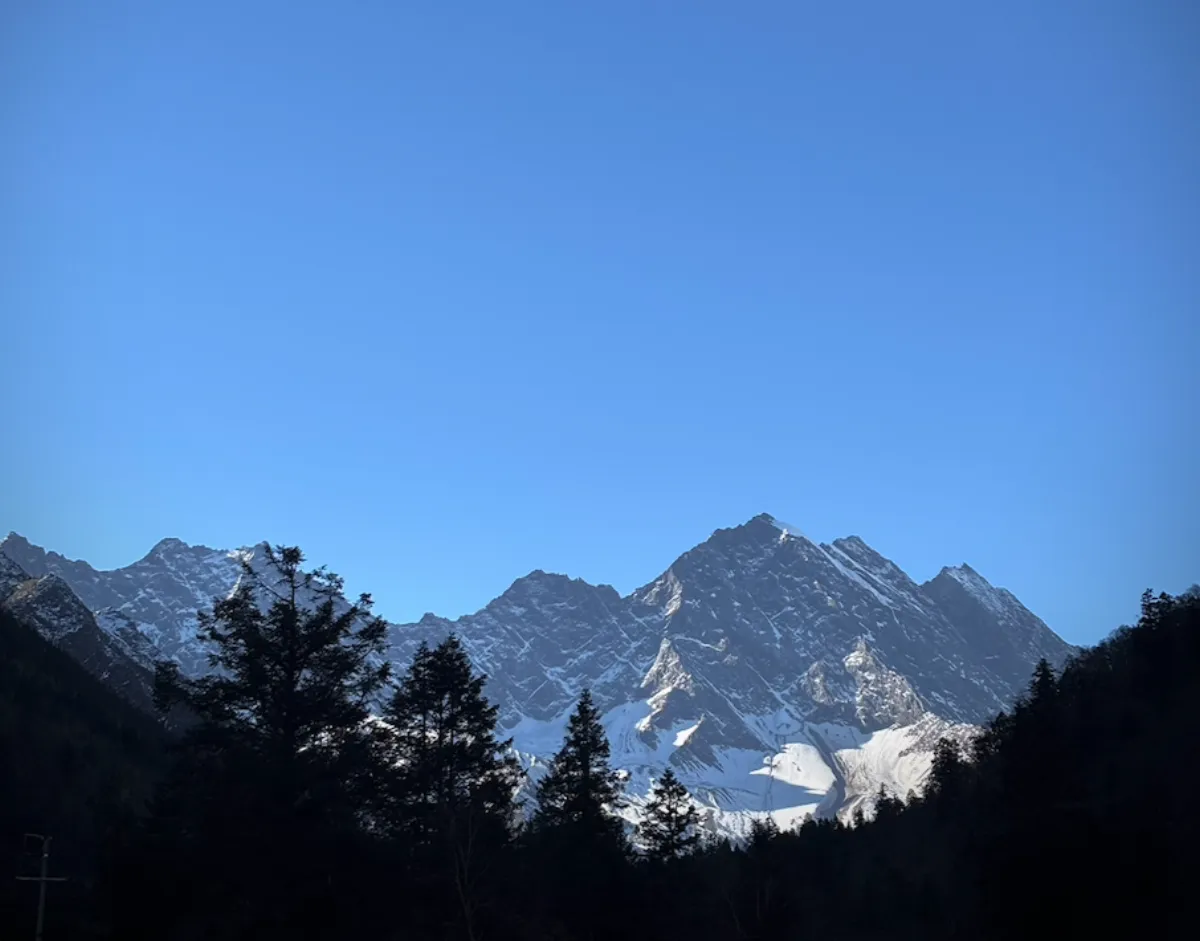
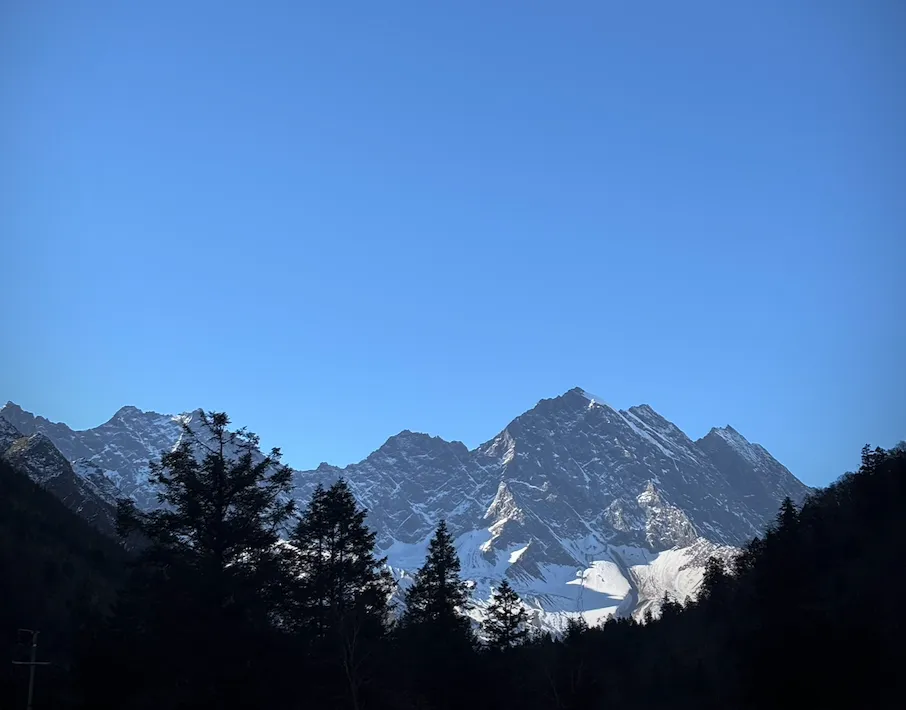
Khao Sok + Chuanxi albums: masonry layout (no cover crop), native-res thumbs

diff --git a/travel-photos/photo/Khao Sok 2025/index.html b/travel-photos/photo/Khao Sok 2025/index.html
@@ -29,21 +29,21 @@
   .intro h1 { font-family: 'Fraunces', serif; font-weight: 400; font-size: 28pt; color: var(--ink); margin-bottom: 8px; }
   .intro p { font-size: 10pt; color: var(--sage-deep); text-transform: uppercase; letter-spacing: 0.08em; font-weight: 600; }
 
-  .gallery { max-width: 1200px; margin: 0 auto; padding: 0 32px 80px; display: grid; grid-template-columns: repeat(3, 1fr); gap: 16px; }
-  .gallery .photo { display: block; border-radius: 2px; overflow: hidden; position: relative; cursor: pointer; aspect-ratio: 4/3; background: var(--sand); }
-  .gallery .photo img { width: 100%; height: 100%; object-fit: cover; display: block; transition: opacity .4s, transform 3s ease; }
+  .gallery { max-width: 1200px; margin: 0 auto; padding: 0 32px 80px; columns: 3; column-gap: 16px; }
+  .gallery .photo { display: block; border-radius: 2px; overflow: hidden; position: relative; cursor: pointer; margin-bottom: 16px; break-inside: avoid; background: var(--sand); }
+  .gallery .photo img { width: 100%; height: auto; display: block; transition: opacity .4s, transform 3s ease; }
   .gallery .photo:hover img { opacity: 0.88; transform: scale(1.035); }
   .gallery .photo .caption { position: absolute; bottom: 0; left: 0; right: 0; padding: 30px 16px 14px; background: linear-gradient(to top, rgba(38,32,24,.55), transparent); font-size: 9pt; color: rgba(250,247,242,.85); opacity: 0; transition: opacity .3s; pointer-events: none; }
   .gallery .photo:hover .caption { opacity: 1; }
 
   footer { max-width: 1200px; margin: 0 auto; padding: 10px 32px 40px; font-size: 8pt; color: rgba(58,54,48,.4); text-align: center; }
 
-  @media (max-width: 800px) { .gallery { grid-template-columns: repeat(2, 1fr); } }
+  @media (max-width: 800px) { .gallery { columns: 2; } }
   @media (max-width: 500px) {
    .header { padding: 28px 20px 16px; }
    .intro { padding: 40px 20px 20px; }
    .intro h1 { font-size: 22pt; }
-   .gallery { grid-template-columns: 1fr; padding: 0 20px 60px; }
+   .gallery { columns: 1; padding: 0 20px 60px; }
    .gallery .photo .caption { opacity: 1; }
   }
  </style>
@@ -62,32 +62,32 @@
 <div class="gallery">
 
  <a href="Ban%20Chiao%20Lan.png" class="photo" target="_blank">
-  <img src="web/Ban%20Chiao%20Lan.webp" alt="Ban Chiao Lan" loading="lazy">
+  <img src="web/Ban%20Chiao%20Lan.webp" alt="Ban Chiao Lan" width="962" height="874" loading="lazy">
   <div class="caption">Ban Chiao Lan</div>
  </a>
 
  <a href="sunset%20ban%20chiao%20lan.png" class="photo" target="_blank">
-  <img src="web/sunset%20ban%20chiao%20lan.webp" alt="Sunset Ban Chiao Lan" loading="lazy">
+  <img src="web/sunset%20ban%20chiao%20lan.webp" alt="Sunset Ban Chiao Lan" width="1254" height="980" loading="lazy">
   <div class="caption">Sunset at Ban Chiao Lan</div>
  </a>
 
  <a href="ratchaprapha%20dam.png" class="photo" target="_blank">
-  <img src="web/ratchaprapha%20dam.webp" alt="Ratchaprapha Dam" loading="lazy">
+  <img src="web/ratchaprapha%20dam.webp" alt="Ratchaprapha Dam" width="966" height="914" loading="lazy">
   <div class="caption">Ratchaprapha Dam</div>
  </a>
 
  <a href="ratchaprapha%20dam%201.png" class="photo" target="_blank">
-  <img src="web/ratchaprapha%20dam%201.webp" alt="Ratchaprapha Dam" loading="lazy">
+  <img src="web/ratchaprapha%20dam%201.webp" alt="Ratchaprapha Dam" width="1200" height="908" loading="lazy">
   <div class="caption">Ratchaprapha Dam</div>
  </a>
 
  <a href="ratchaprapha%20dam%202.png" class="photo" target="_blank">
-  <img src="web/ratchaprapha%20dam%202.webp" alt="Ratchaprapha Dam" loading="lazy">
+  <img src="web/ratchaprapha%20dam%202.webp" alt="Ratchaprapha Dam" width="1200" height="1024" loading="lazy">
   <div class="caption">Ratchaprapha Dam</div>
  </a>
 
  <a href="ratchaprapha%203.png" class="photo" target="_blank">
-  <img src="web/ratchaprapha%203.webp" alt="Ratchaprapha" loading="lazy">
+  <img src="web/ratchaprapha%203.webp" alt="Ratchaprapha" width="1200" height="1062" loading="lazy">
   <div class="caption">Ratchaprapha</div>
  </a>
 

diff --git a/travel-photos/photo/China.chuanxi 2025/index.html b/travel-photos/photo/China.chuanxi 2025/index.html
@@ -29,21 +29,21 @@
   .intro h1 { font-family: 'Fraunces', serif; font-weight: 400; font-size: 28pt; color: var(--ink); margin-bottom: 8px; }
   .intro p { font-size: 10pt; color: var(--sage-deep); text-transform: uppercase; letter-spacing: 0.08em; font-weight: 600; }
 
-  .gallery { max-width: 1200px; margin: 0 auto; padding: 0 32px 80px; display: grid; grid-template-columns: repeat(3, 1fr); gap: 16px; }
-  .gallery .photo { display: block; border-radius: 2px; overflow: hidden; position: relative; cursor: pointer; aspect-ratio: 4/3; background: var(--sand); }
-  .gallery .photo img { width: 100%; height: 100%; object-fit: cover; display: block; transition: opacity .4s, transform 3s ease; }
+  .gallery { max-width: 1200px; margin: 0 auto; padding: 0 32px 80px; columns: 3; column-gap: 16px; }
+  .gallery .photo { display: block; border-radius: 2px; overflow: hidden; position: relative; cursor: pointer; margin-bottom: 16px; break-inside: avoid; background: var(--sand); }
+  .gallery .photo img { width: 100%; height: auto; display: block; transition: opacity .4s, transform 3s ease; }
   .gallery .photo:hover img { opacity: 0.88; transform: scale(1.035); }
   .gallery .photo .caption { position: absolute; bottom: 0; left: 0; right: 0; padding: 30px 16px 14px; background: linear-gradient(to top, rgba(38,32,24,.55), transparent); font-size: 9pt; color: rgba(250,247,242,.85); opacity: 0; transition: opacity .3s; pointer-events: none; }
   .gallery .photo:hover .caption { opacity: 1; }
 
   footer { max-width: 1200px; margin: 0 auto; padding: 10px 32px 40px; font-size: 8pt; color: rgba(58,54,48,.4); text-align: center; }
 
-  @media (max-width: 800px) { .gallery { grid-template-columns: repeat(2, 1fr); } }
+  @media (max-width: 800px) { .gallery { columns: 2; } }
   @media (max-width: 500px) {
    .header { padding: 28px 20px 16px; }
    .intro { padding: 40px 20px 20px; }
    .intro h1 { font-size: 22pt; }
-   .gallery { grid-template-columns: 1fr; padding: 0 20px 60px; }
+   .gallery { columns: 1; padding: 0 20px 60px; }
    .gallery .photo .caption { opacity: 1; }
   }
  </style>
@@ -62,27 +62,27 @@
 <div class="gallery">
 
  <a href="%E7%BA%A2%E7%9F%B3%E6%BB%A9.png" class="photo" target="_blank">
-  <img src="web/%E7%BA%A2%E7%9F%B3%E6%BB%A9.webp" alt="红石滩" loading="lazy">
+  <img src="web/%E7%BA%A2%E7%9F%B3%E6%BB%A9.webp" alt="红石滩" width="1200" height="886" loading="lazy">
   <div class="caption">红石滩 &middot; Red Stone Beach</div>
  </a>
 
  <a href="%E7%BA%A2%E7%9F%B3%E6%BB%A9-1.png" class="photo" target="_blank">
-  <img src="web/%E7%BA%A2%E7%9F%B3%E6%BB%A9-1.webp" alt="红石滩" loading="lazy">
+  <img src="web/%E7%BA%A2%E7%9F%B3%E6%BB%A9-1.webp" alt="红石滩" width="846" height="912" loading="lazy">
   <div class="caption">红石滩 &middot; Red Stone Beach</div>
  </a>
 
  <a href="%E7%90%86%E5%B0%8F%E8%B7%AF.png" class="photo" target="_blank">
-  <img src="web/%E7%90%86%E5%B0%8F%E8%B7%AF.webp" alt="理小路" loading="lazy">
+  <img src="web/%E7%90%86%E5%B0%8F%E8%B7%AF.webp" alt="理小路" width="602" height="608" loading="lazy">
   <div class="caption">理小路 &middot; Lixiao Road</div>
  </a>
 
  <a href="%E7%90%86%E5%B0%8F%E8%B7%AF-1.png" class="photo" target="_blank">
-  <img src="web/%E7%90%86%E5%B0%8F%E8%B7%AF-1.webp" alt="理小路" loading="lazy">
+  <img src="web/%E7%90%86%E5%B0%8F%E8%B7%AF-1.webp" alt="理小路" width="906" height="710" loading="lazy">
   <div class="caption">理小路 &middot; Lixiao Road</div>
  </a>
 
  <a href="%E6%AF%95%E6%A3%9A%E6%B2%9F.png" class="photo" target="_blank">
-  <img src="web/%E6%AF%95%E6%A3%9A%E6%B2%9F.webp" alt="毕棚沟" loading="lazy">
+  <img src="web/%E6%AF%95%E6%A3%9A%E6%B2%9F.webp" alt="毕棚沟" width="844" height="810" loading="lazy">
   <div class="caption">毕棚沟 &middot; Bipeng Valley</div>
  </a>
 
